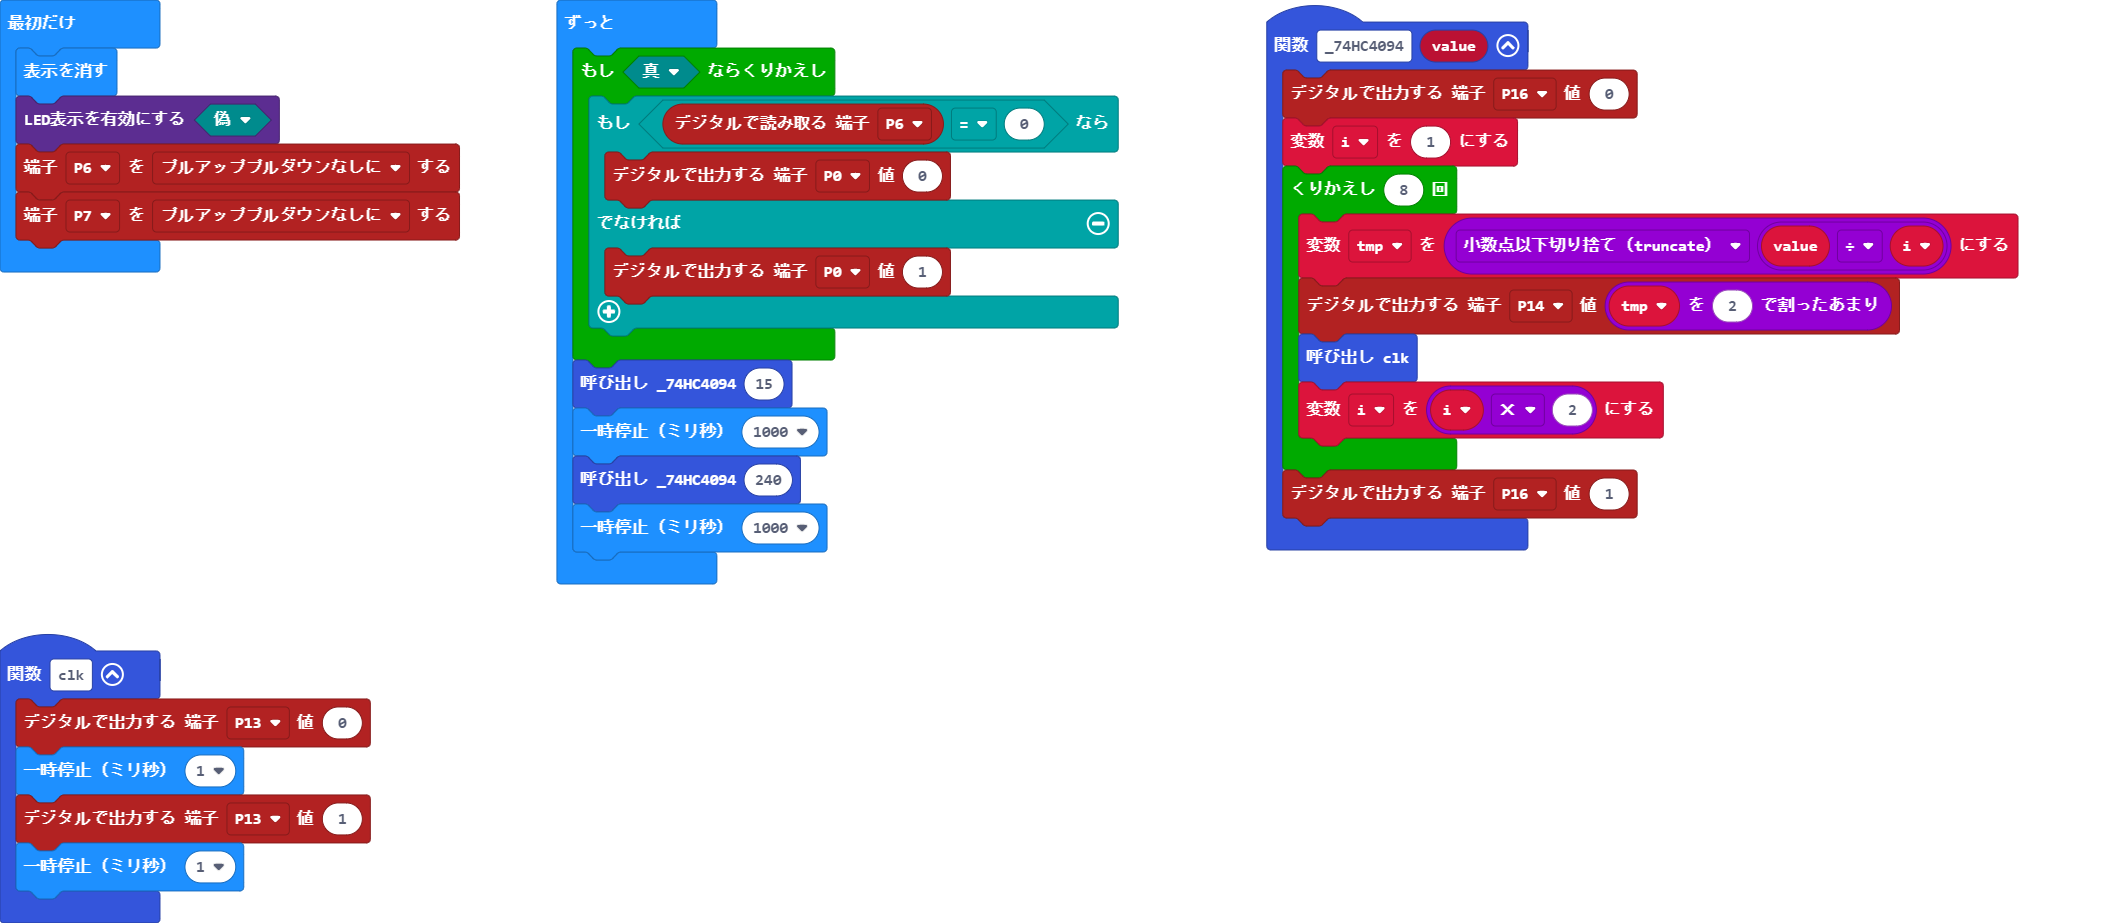
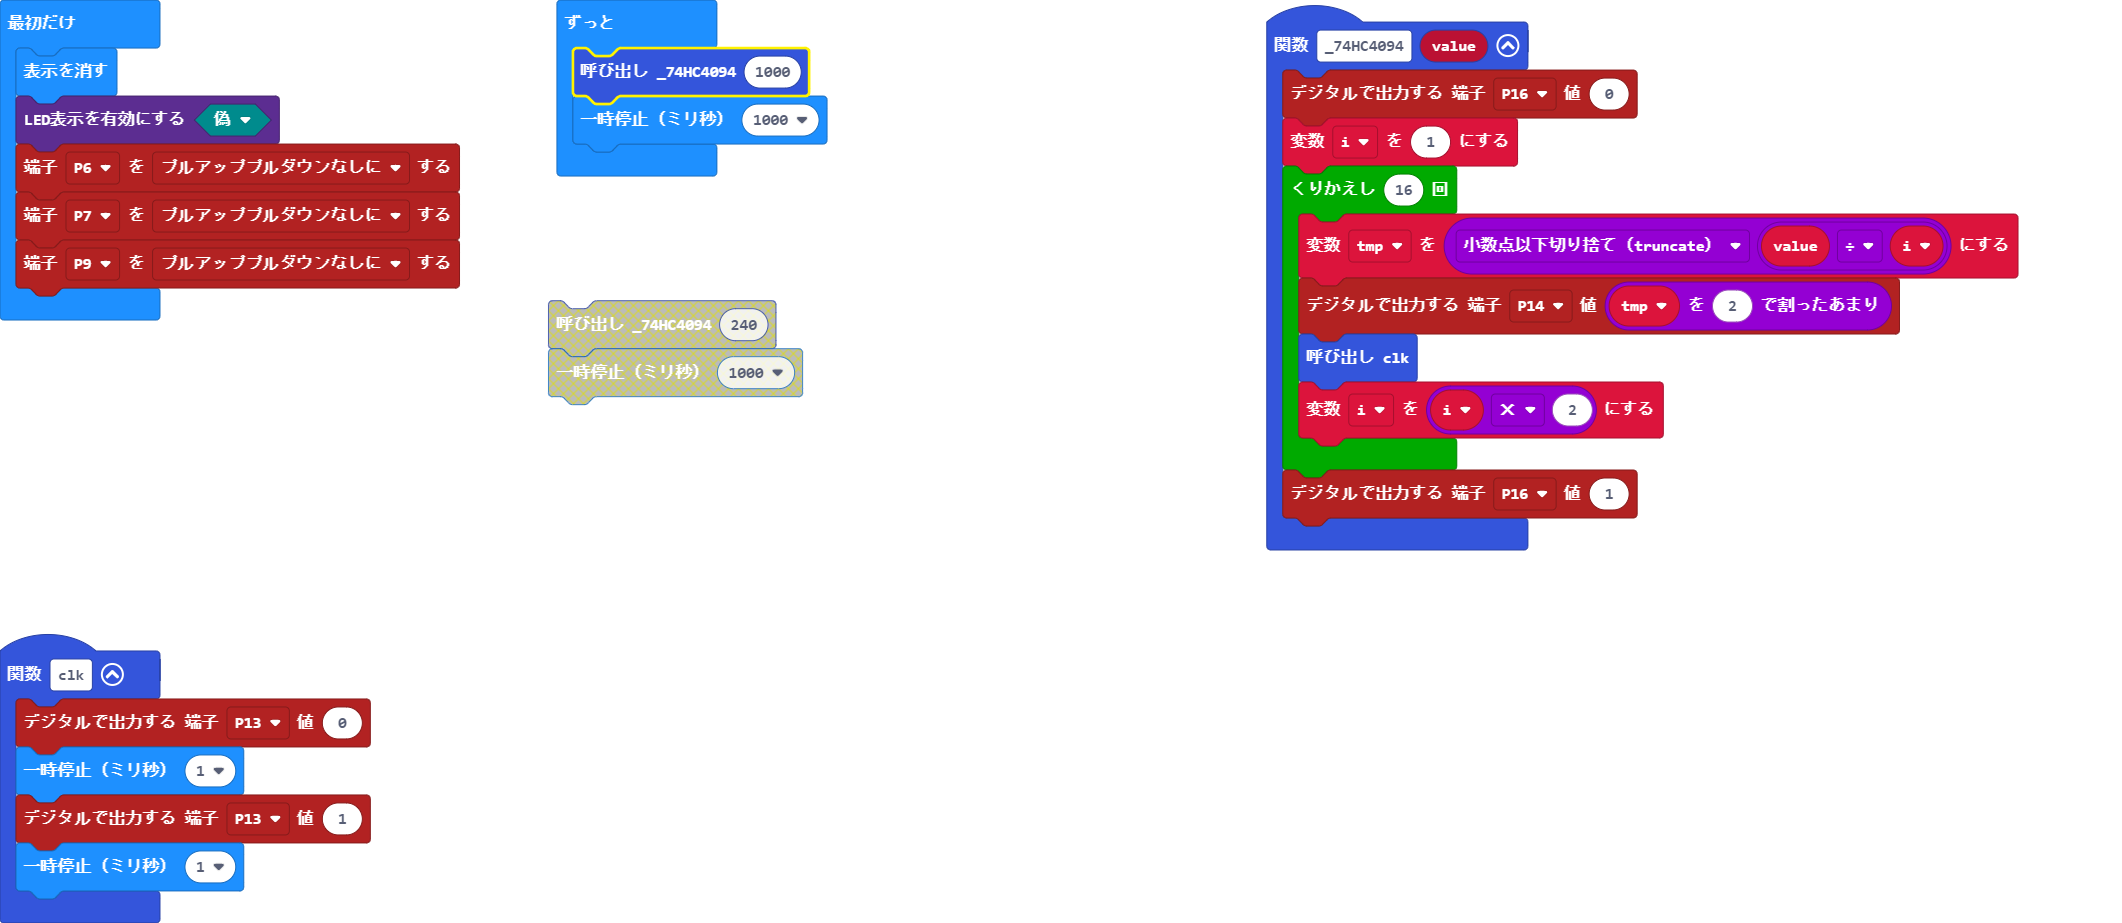
制御基板に接続

Changed region(s): [[0.2488, 0.0303, 0.5287, 0.6371], [0.0, 0.2427, 0.2177, 0.364]]

diff --git a/main.ts b/main.ts
@@ -1,7 +1,7 @@
 function _74HC4094 (value: number) {
     pins.digitalWritePin(DigitalPin.P16, 0)
     i = 1
-    for (let index = 0; index < 8; index++) {
+    for (let index = 0; index < 16; index++) {
         tmp = Math.trunc(value / i)
         pins.digitalWritePin(DigitalPin.P14, tmp % 2)
         clk()
@@ -21,16 +21,8 @@ basic.clearScreen()
 led.enable(false)
 pins.setPull(DigitalPin.P6, PinPullMode.PullNone)
 pins.setPull(DigitalPin.P7, PinPullMode.PullNone)
+pins.setPull(DigitalPin.P9, PinPullMode.PullNone)
 basic.forever(function () {
-    while (true) {
-        if (pins.digitalReadPin(DigitalPin.P6) == 0) {
-            pins.digitalWritePin(DigitalPin.P0, 0)
-        } else {
-            pins.digitalWritePin(DigitalPin.P0, 1)
-        }
-    }
-    _74HC4094(15)
-    basic.pause(1000)
-    _74HC4094(240)
+    _74HC4094(1000)
     basic.pause(1000)
 })
